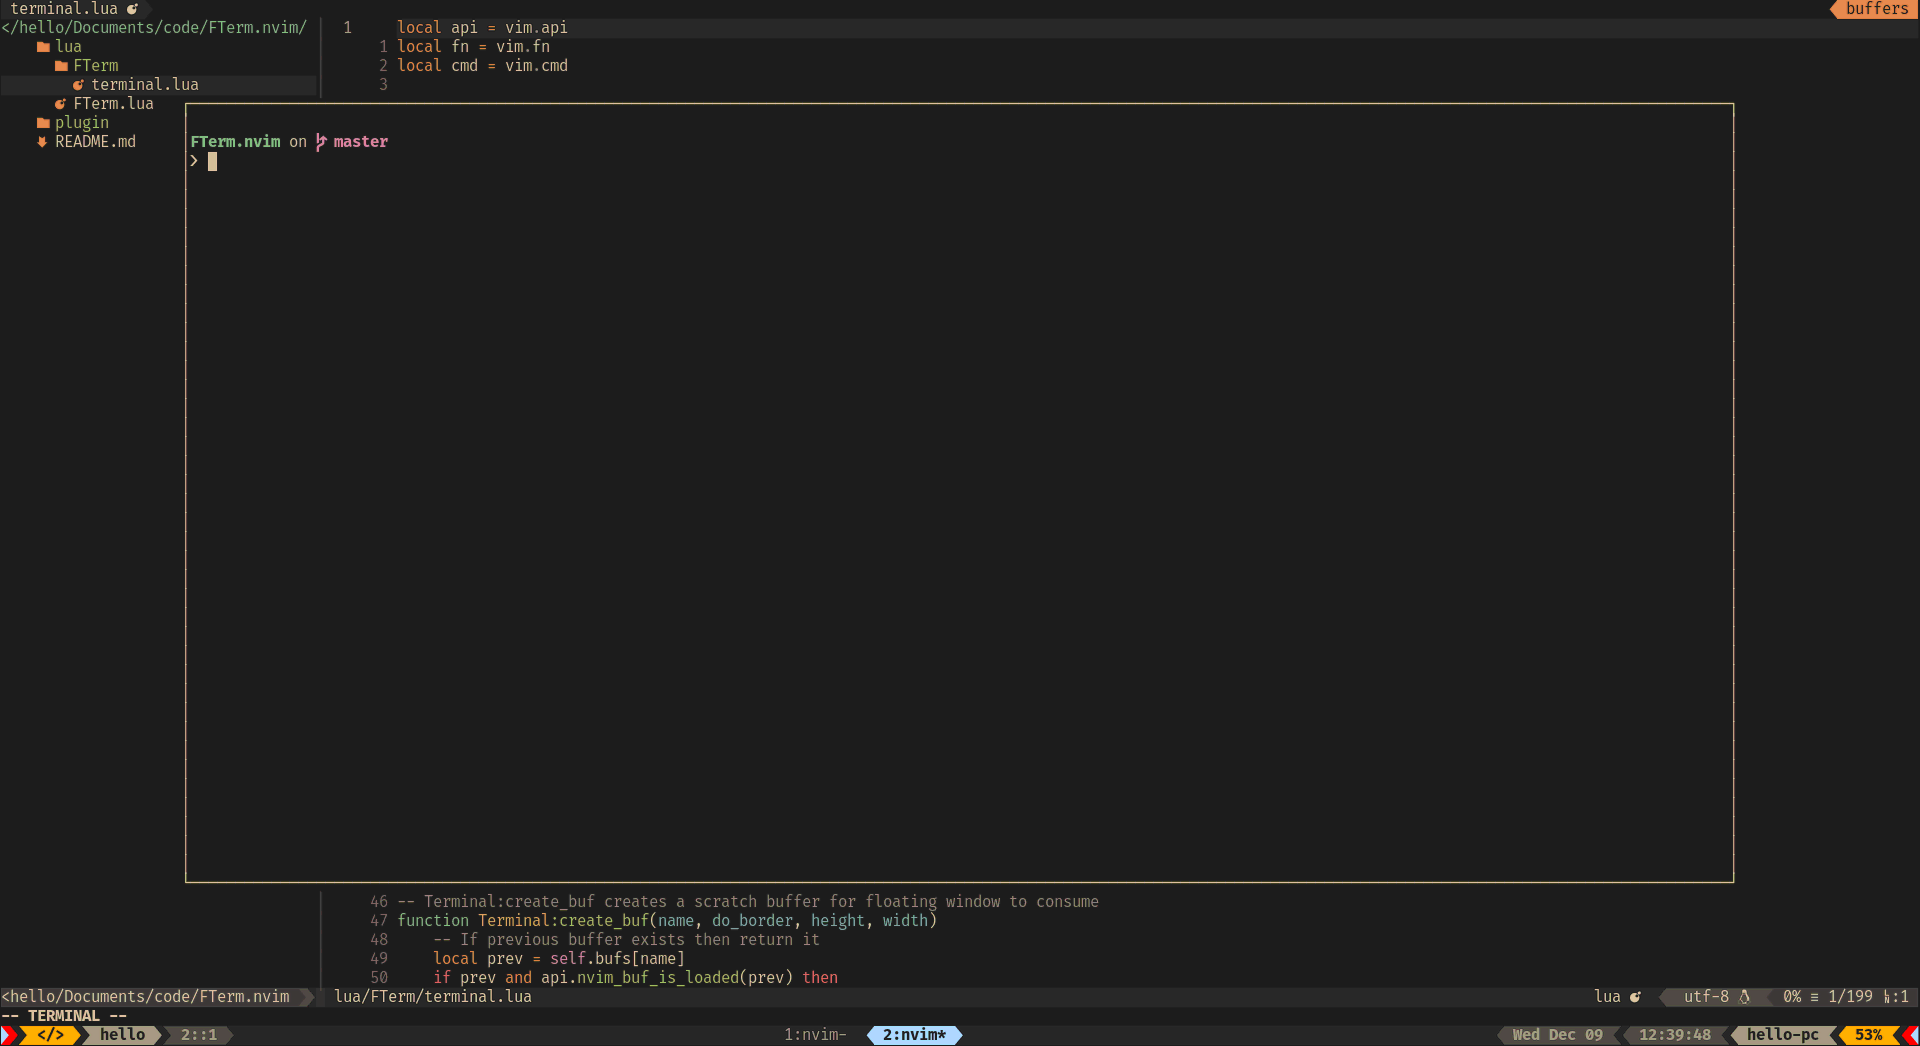
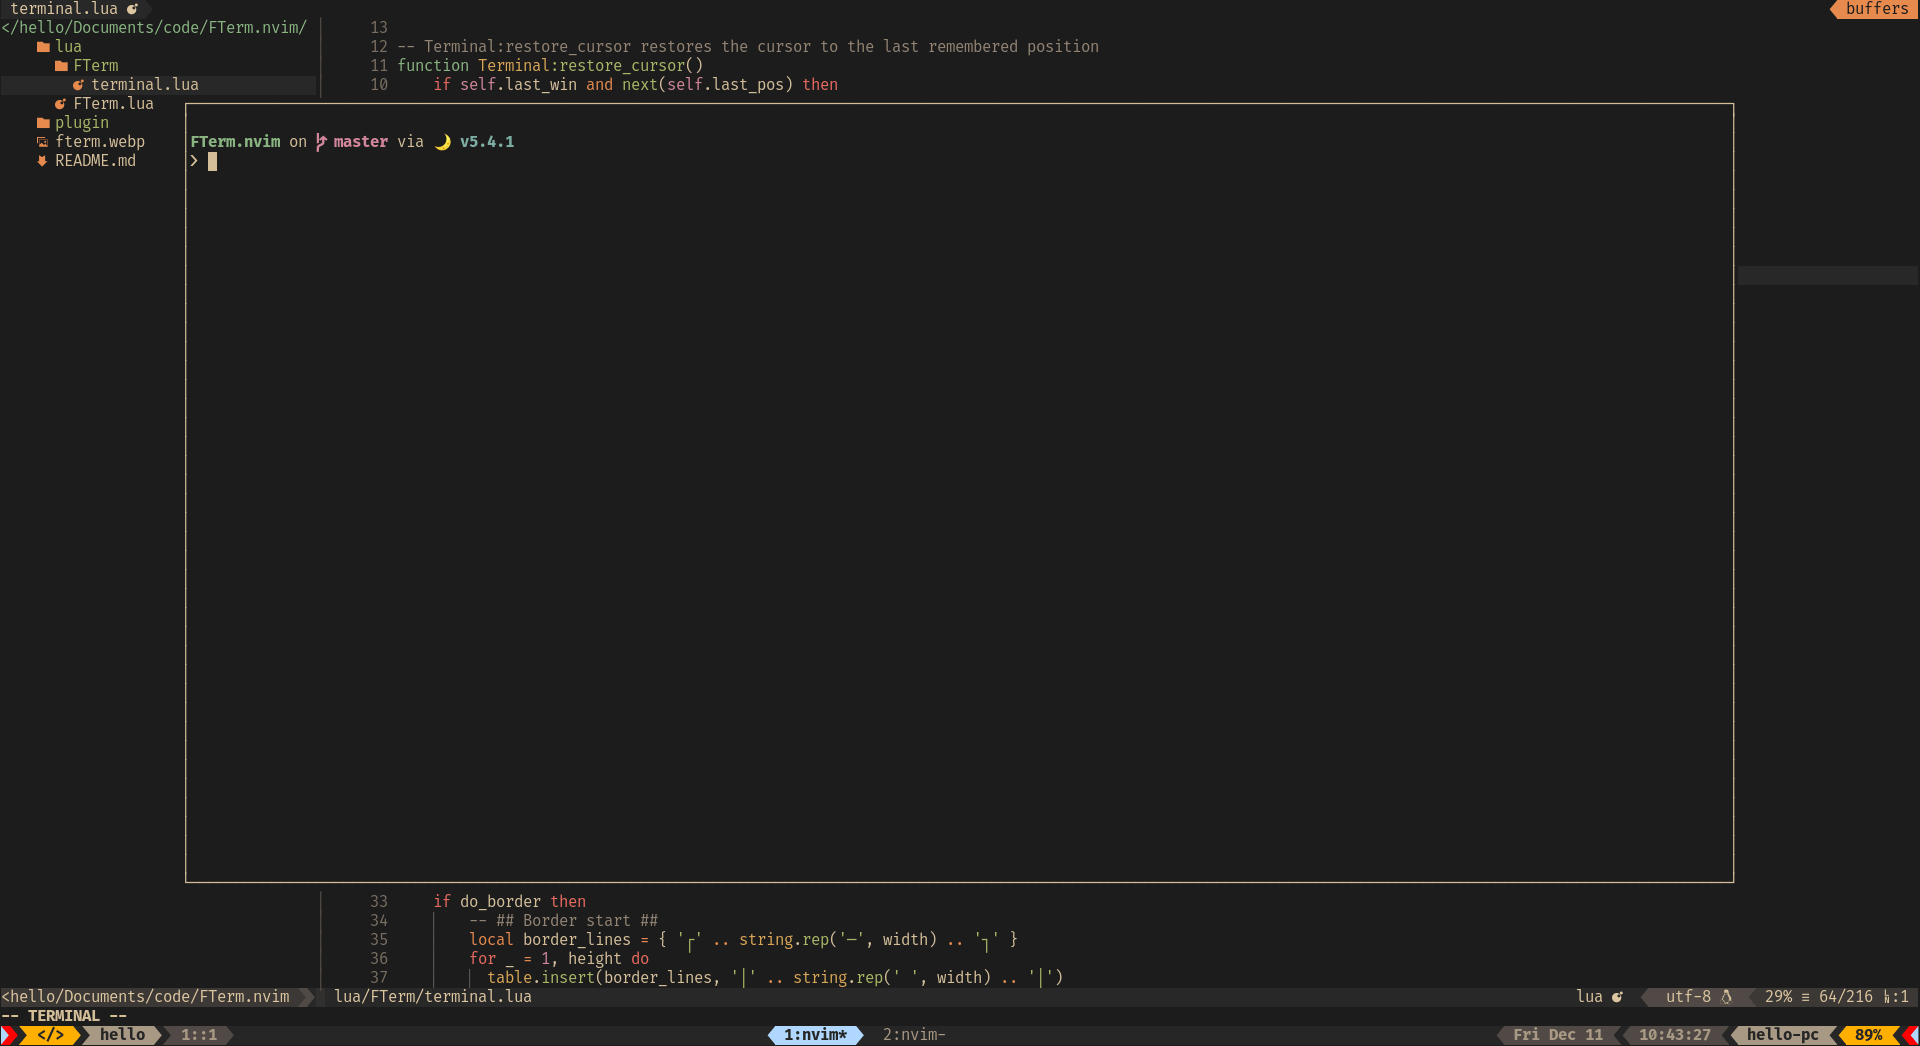
config: make dimensions configurable (#2)
* config: added dimensions

* fix: terminal not resizing even after exiting

* updated README

* updated image

diff --git a/README.md b/README.md
@@ -44,9 +44,29 @@ use 'numtostr/FTerm.nvim'
 :FTermToggle
 ```
 
-### Keybinds (optional)
+### Setup
 
 ```lua
+
+-- Default dimensions, you can customize them individually
+-- NOTE: No need to call .setup() if you don't want to customize
+require'FTerm'.setup({
+    dimensions  = {
+        height = 0.8,
+        width = 0.8,
+        row = 0.5,
+        col = 0.5
+    }
+})
+
+-- Keybinding
+
+-- Closer to the metal
+vim.fn.nvim_set_keymap('n', '<A-i>', '<CMD>lua require"FTerm".toggle()<CR>', { noremap = true, silent = true })
+vim.fn.nvim_set_keymap('t', '<A-i>', '<C-\\><C-n>lua require"FTerm".toggle()<CR>', { noremap = true, silent = true })
+
+-- or
+
 vim.fn.nvim_set_keymap('n', '<A-i>', ':FTermToggle<CR>', { noremap = true, silent = true })
 vim.fn.nvim_set_keymap('t', '<A-i>', '<C-\\><C-n>:FTermToggle<CR>', { noremap = true, silent = true })
 ```
